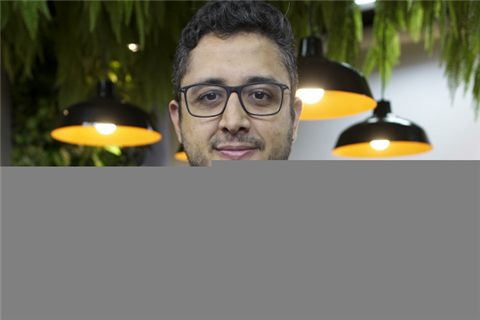
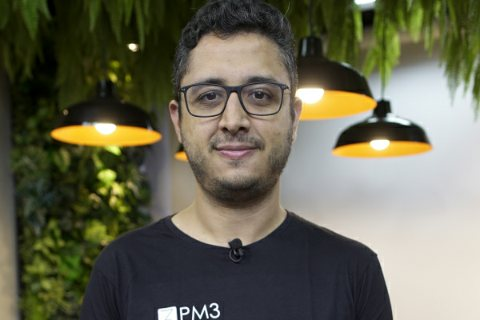
Instrutores: mural com zoom no rosto, foto do Gabriel Costa corrigida e sem a foto com painel ao fundo

diff --git a/assets/js/instrutores-dados.js b/assets/js/instrutores-dados.js
@@ -108,7 +108,7 @@ window.PM3_INSTRUTORES = [
     { n: 'Alexandre Spengler', c: 'Product Director', e: 'Bitso', f: 'alexandre-spengler.jpg', m: 1, li: 'https://www.linkedin.com/in/alexandrespengler/', cursos: ['Product Discovery'], areas: ['gestao'] },
     { n: 'Maria Luísa Cantadori', c: 'Senior Product Manager', e: 'Stripe', f: 'maria-luisa-cantadori.jpg', m: 1, li: 'https://www.linkedin.com/in/mlcantadori/', cursos: ['Product Discovery','Product Management'], areas: ['gestao'] },
     { n: 'Bernardo Srulzon', c: 'Senior Product Lead', e: 'Nubank', f: 'bernardo-srulzon.jpg', m: 1, li: 'https://www.linkedin.com/in/bernardosrulzon/', cursos: ['Product Growth','Product Management'], areas: ['gestao','marketing'] },
-    { n: 'Pedro Axelrud', c: 'Product Director', e: 'Nubank', f: 'pedro-axerud.jpg', m: 1, li: 'https://www.linkedin.com/in/pedroaxl/', cursos: ['Product Management'], areas: ['gestao'] },
+    { n: 'Pedro Axelrud', c: 'Product Director', e: 'Nubank', f: 'pedro-axerud.jpg', li: 'https://www.linkedin.com/in/pedroaxl/', cursos: ['Product Management'], areas: ['gestao'] },
     { n: 'Loren Monteiro', c: 'CPO Adevinta Benelux', e: 'Adevinta', f: 'loren-monteiro.jpg', m: 1, li: 'https://www.linkedin.com/in/loren-monteiro-560a3416/', cursos: ['Product Management'], areas: ['gestao'] },
     { n: 'Joaquim Torres', c: 'Founder & Principal Consultant', e: 'Gyaco', f: 'joaquim-torres.jpg', m: 1, li: 'https://www.linkedin.com/in/jocatorres/', cursos: ['Product Leadership','Product Management','Product Marketing'], areas: ['gestao','lideranca','marketing'] },
     { n: 'André Nery', c: 'Founder & CEO', e: 'Alpha', f: 'andre-nery.jpg', m: 1, li: 'https://www.linkedin.com/in/andrenery/', cursos: ['Product Management'], areas: ['gestao'] },

diff --git a/assets/css/institucional.css b/assets/css/institucional.css
@@ -51,8 +51,8 @@
 .faces span{position:relative;aspect-ratio:1;border-radius:16px;overflow:hidden;background:var(--purple-deep);opacity:0;transform:translateY(12px);transition:opacity .6s,transform .6s}
 .faces.in span{opacity:1;transform:none}
 .faces span::after{content:'';position:absolute;inset:0;background:linear-gradient(160deg,rgba(176,77,221,.55),rgba(69,46,120,.75));mix-blend-mode:color;transition:opacity .4s;pointer-events:none}
-.faces img{width:100%;height:100%;object-fit:cover;object-position:center 26%;filter:grayscale(1) contrast(1.08) brightness(1.05);transition:filter .4s,transform .6s cubic-bezier(.2,.7,.2,1)}
-.faces span:hover img{filter:none;transform:scale(1.04)}
+.faces img{width:100%;height:100%;object-fit:cover;object-position:center 20%;transform:scale(1.2);transform-origin:50% 18%;filter:grayscale(1) contrast(1.08) brightness(1.05);transition:filter .4s,transform .6s cubic-bezier(.2,.7,.2,1)}
+.faces span:hover img{filter:none;transform:scale(1.26)}
 .faces span:hover::after{opacity:0}
 @media (max-width:960px){ .faces{grid-template-columns:repeat(6,minmax(0,1fr));gap:8px} .faces span{border-radius:12px} }
 @media (max-width:600px){ .faces{grid-template-columns:repeat(4,minmax(0,1fr))} .faces span:nth-child(n+9){display:none} }

diff --git a/sobre.html b/sobre.html
@@ -19,7 +19,7 @@
 <link rel="stylesheet" href="assets/css/components.css?v=9">
 <link rel="stylesheet" href="assets/css/hero-card.css?v=4">
 <link rel="stylesheet" href="assets/css/alun.css?v=2">
-<link rel="stylesheet" href="assets/css/institucional.css?v=5">
+<link rel="stylesheet" href="assets/css/institucional.css?v=6">
 <script type="application/ld+json">
 {"@context":"https://schema.org","@graph":[
  {"@type":"AboutPage","name":"Sobre a PM3","url":"https://pm3.com.br/sobre-nos/","about":{"@id":"https://pm3.com.br/#organization"}},
@@ -214,7 +214,7 @@
 
 </main>
 
-<script src="assets/js/instrutores-dados.js?v=2"></script>
+<script src="assets/js/instrutores-dados.js?v=3"></script>
 <script src="assets/js/institucional.js?v=3"></script>
 <script src="assets/js/layout.js?v=61"></script>
 <script src="assets/js/hero-card.js?v=2"></script>

diff --git a/instrutores.html b/instrutores.html
@@ -17,7 +17,7 @@
 <link rel="stylesheet" href="assets/css/tokens.css?v=2">
 <link rel="stylesheet" href="assets/css/base.css?v=32">
 <link rel="stylesheet" href="assets/css/components.css?v=9">
-<link rel="stylesheet" href="assets/css/institucional.css?v=5">
+<link rel="stylesheet" href="assets/css/institucional.css?v=6">
 <script type="application/ld+json">
 {"@context":"https://schema.org","@graph":[
  {"@type":"CollectionPage","name":"Instrutores da PM3","url":"https://pm3.com.br/instrutores/","isPartOf":{"@id":"https://pm3.com.br/#website"}},
@@ -94,7 +94,7 @@
 
 </main>
 
-<script src="assets/js/instrutores-dados.js?v=2"></script>
+<script src="assets/js/instrutores-dados.js?v=3"></script>
 <script src="assets/js/institucional.js?v=3"></script>
 <script src="assets/js/layout.js?v=61"></script>
 </body>

diff --git a/seja-instrutor.html b/seja-instrutor.html
@@ -17,7 +17,7 @@
 <link rel="stylesheet" href="assets/css/tokens.css?v=2">
 <link rel="stylesheet" href="assets/css/base.css?v=32">
 <link rel="stylesheet" href="assets/css/components.css?v=9">
-<link rel="stylesheet" href="assets/css/institucional.css?v=5">
+<link rel="stylesheet" href="assets/css/institucional.css?v=6">
 <script type="application/ld+json">
 {"@context":"https://schema.org","@graph":[
  {"@type":"WebPage","name":"Seja instrutor da PM3","url":"https://pm3.com.br/quero-dar-aula-e-colaborar-com-a-pm3/"},
@@ -113,7 +113,7 @@
 
 </main>
 
-<script src="assets/js/instrutores-dados.js?v=2"></script>
+<script src="assets/js/instrutores-dados.js?v=3"></script>
 <script src="assets/js/institucional.js?v=3"></script>
 <script src="assets/js/layout.js?v=61"></script>
 </body>

diff --git a/contato.html b/contato.html
@@ -17,7 +17,7 @@
 <link rel="stylesheet" href="assets/css/tokens.css?v=2">
 <link rel="stylesheet" href="assets/css/base.css?v=32">
 <link rel="stylesheet" href="assets/css/components.css?v=9">
-<link rel="stylesheet" href="assets/css/institucional.css?v=5">
+<link rel="stylesheet" href="assets/css/institucional.css?v=6">
 <script type="application/ld+json">
 {"@context":"https://schema.org","@graph":[
  {"@type":"ContactPage","name":"Contato PM3","url":"https://pm3.com.br/contato/","about":{"@id":"https://pm3.com.br/#organization"}},

diff --git a/depoimentos.html b/depoimentos.html
@@ -17,7 +17,7 @@
 <link rel="stylesheet" href="assets/css/tokens.css?v=2">
 <link rel="stylesheet" href="assets/css/base.css?v=32">
 <link rel="stylesheet" href="assets/css/components.css?v=9">
-<link rel="stylesheet" href="assets/css/institucional.css?v=5">
+<link rel="stylesheet" href="assets/css/institucional.css?v=6">
 <script type="application/ld+json">
 {"@context":"https://schema.org","@graph":[
  {"@type":"CollectionPage","name":"Depoimentos de alunos da PM3","url":"https://pm3.com.br/depoimentos/"},

diff --git a/404.html b/404.html
@@ -13,7 +13,7 @@
 <link rel="stylesheet" href="assets/css/tokens.css?v=2">
 <link rel="stylesheet" href="assets/css/base.css?v=32">
 <link rel="stylesheet" href="assets/css/components.css?v=9">
-<link rel="stylesheet" href="assets/css/institucional.css?v=5">
+<link rel="stylesheet" href="assets/css/institucional.css?v=6">
 </head>
 <body data-page="404">
 
